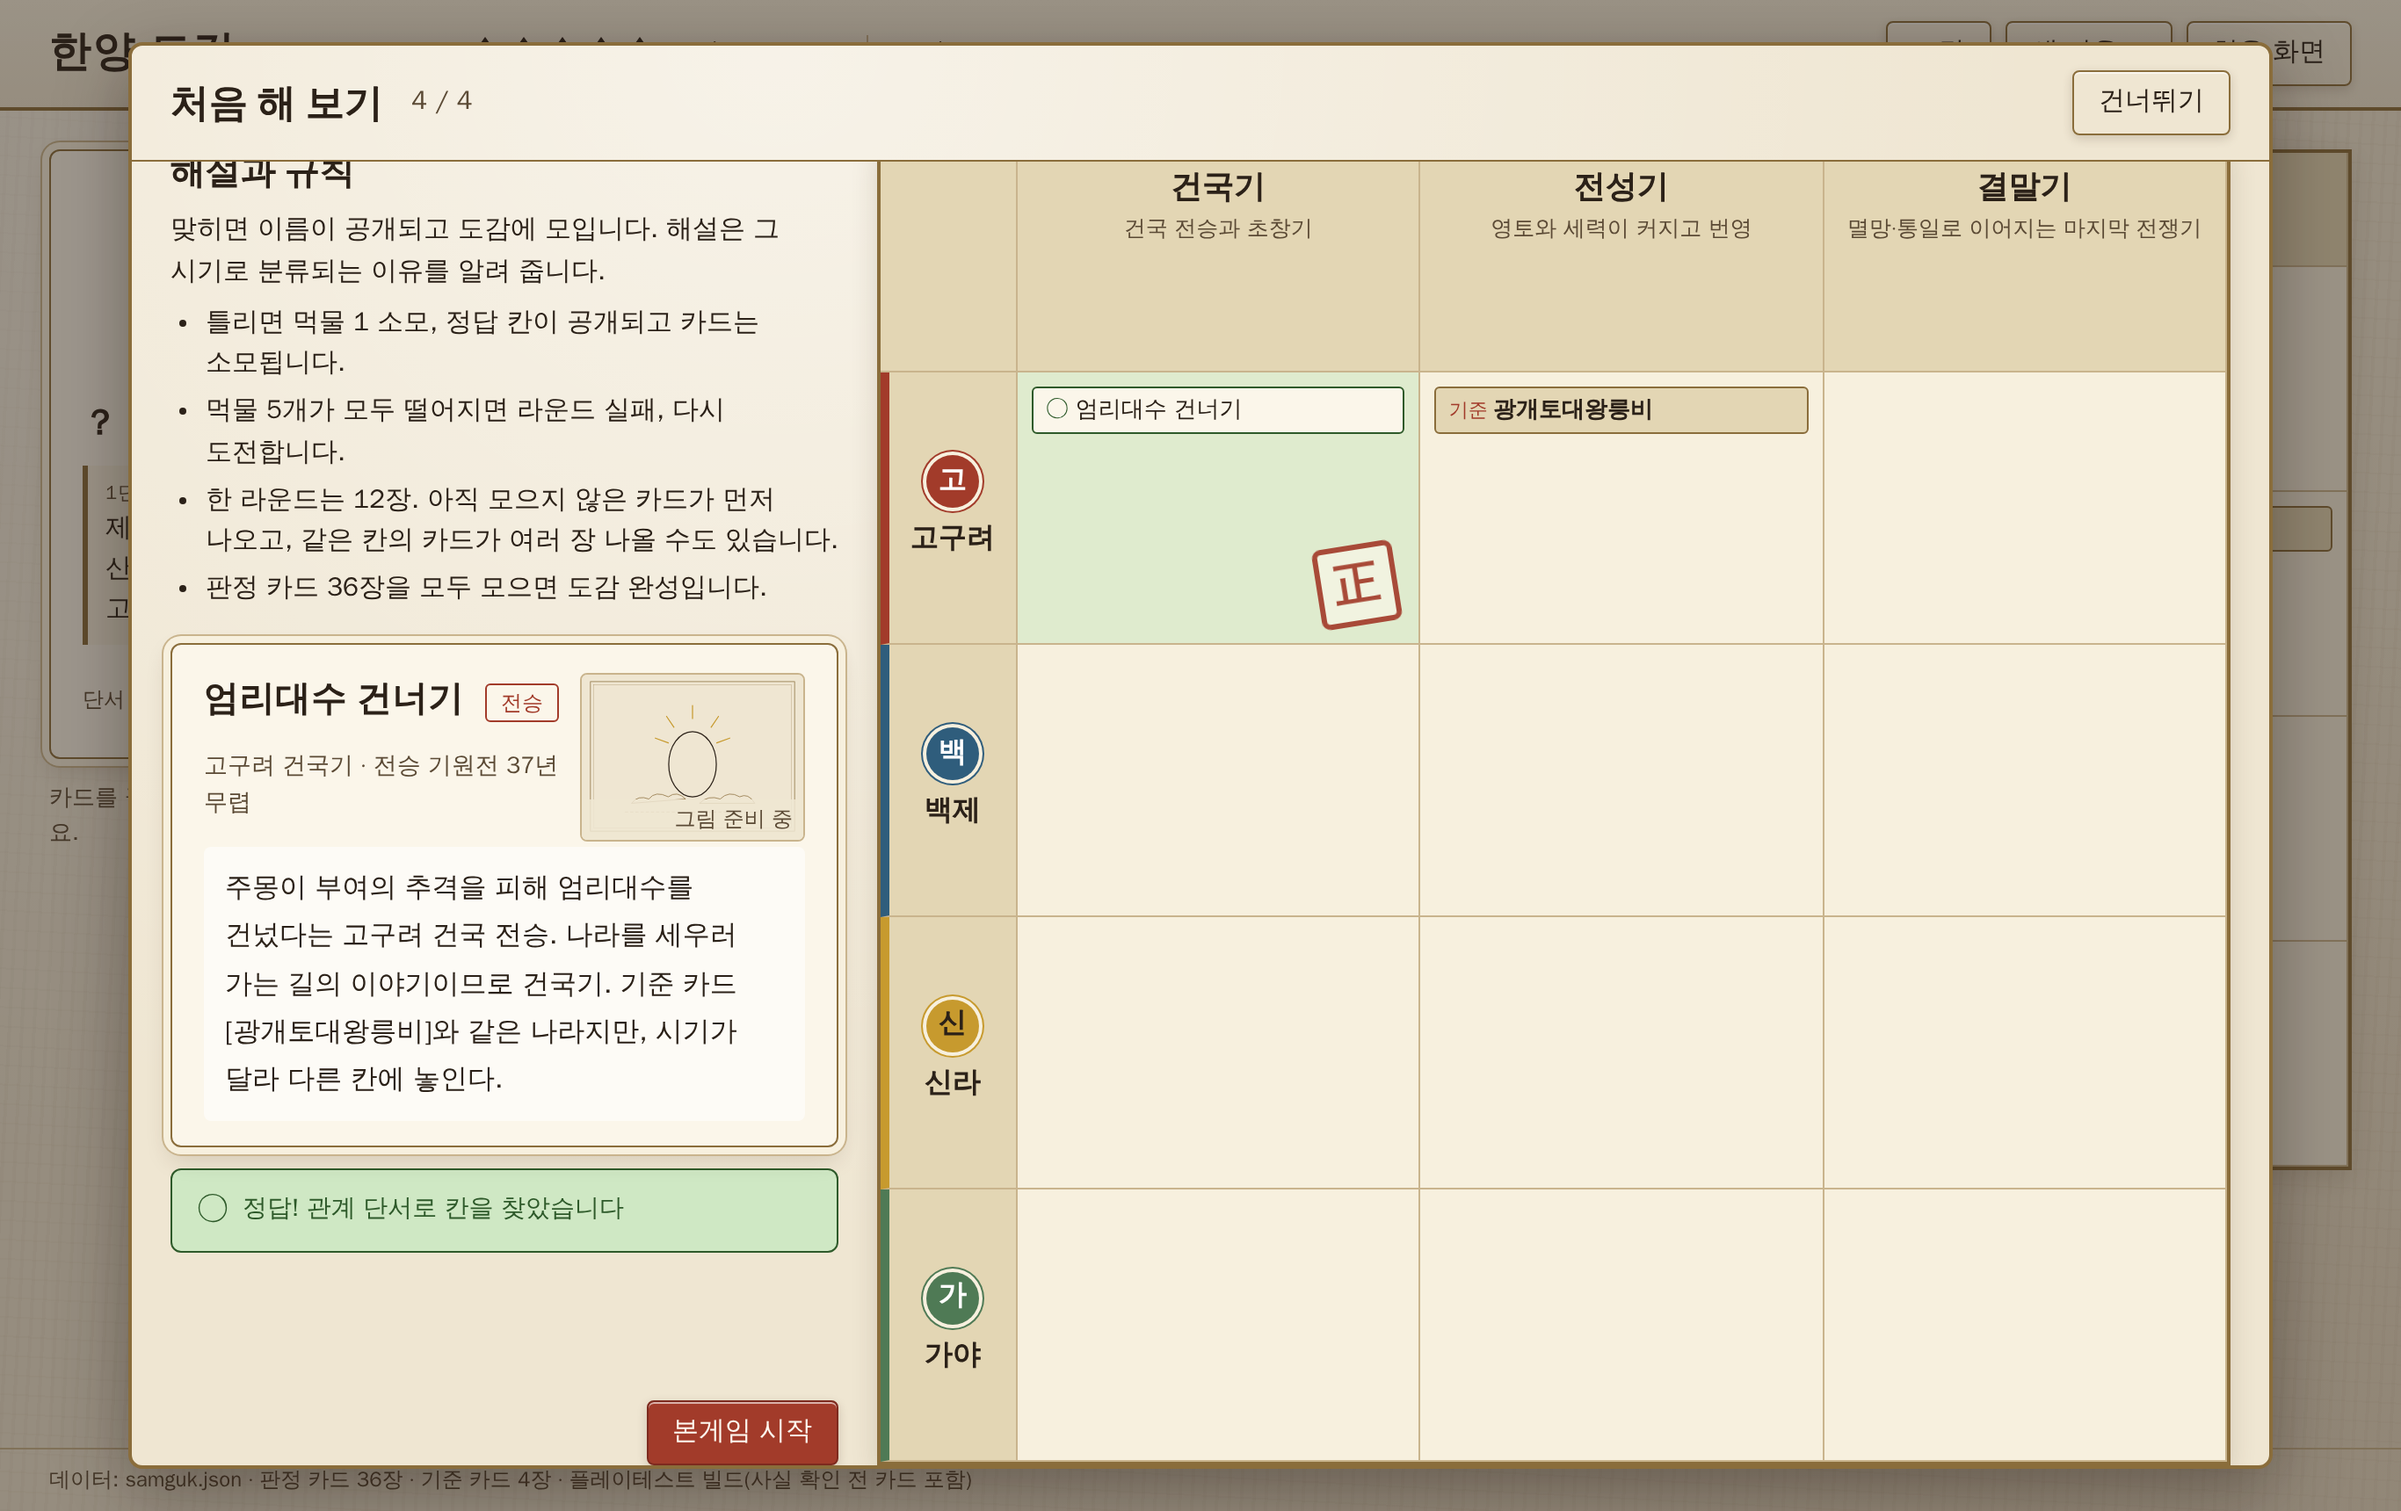
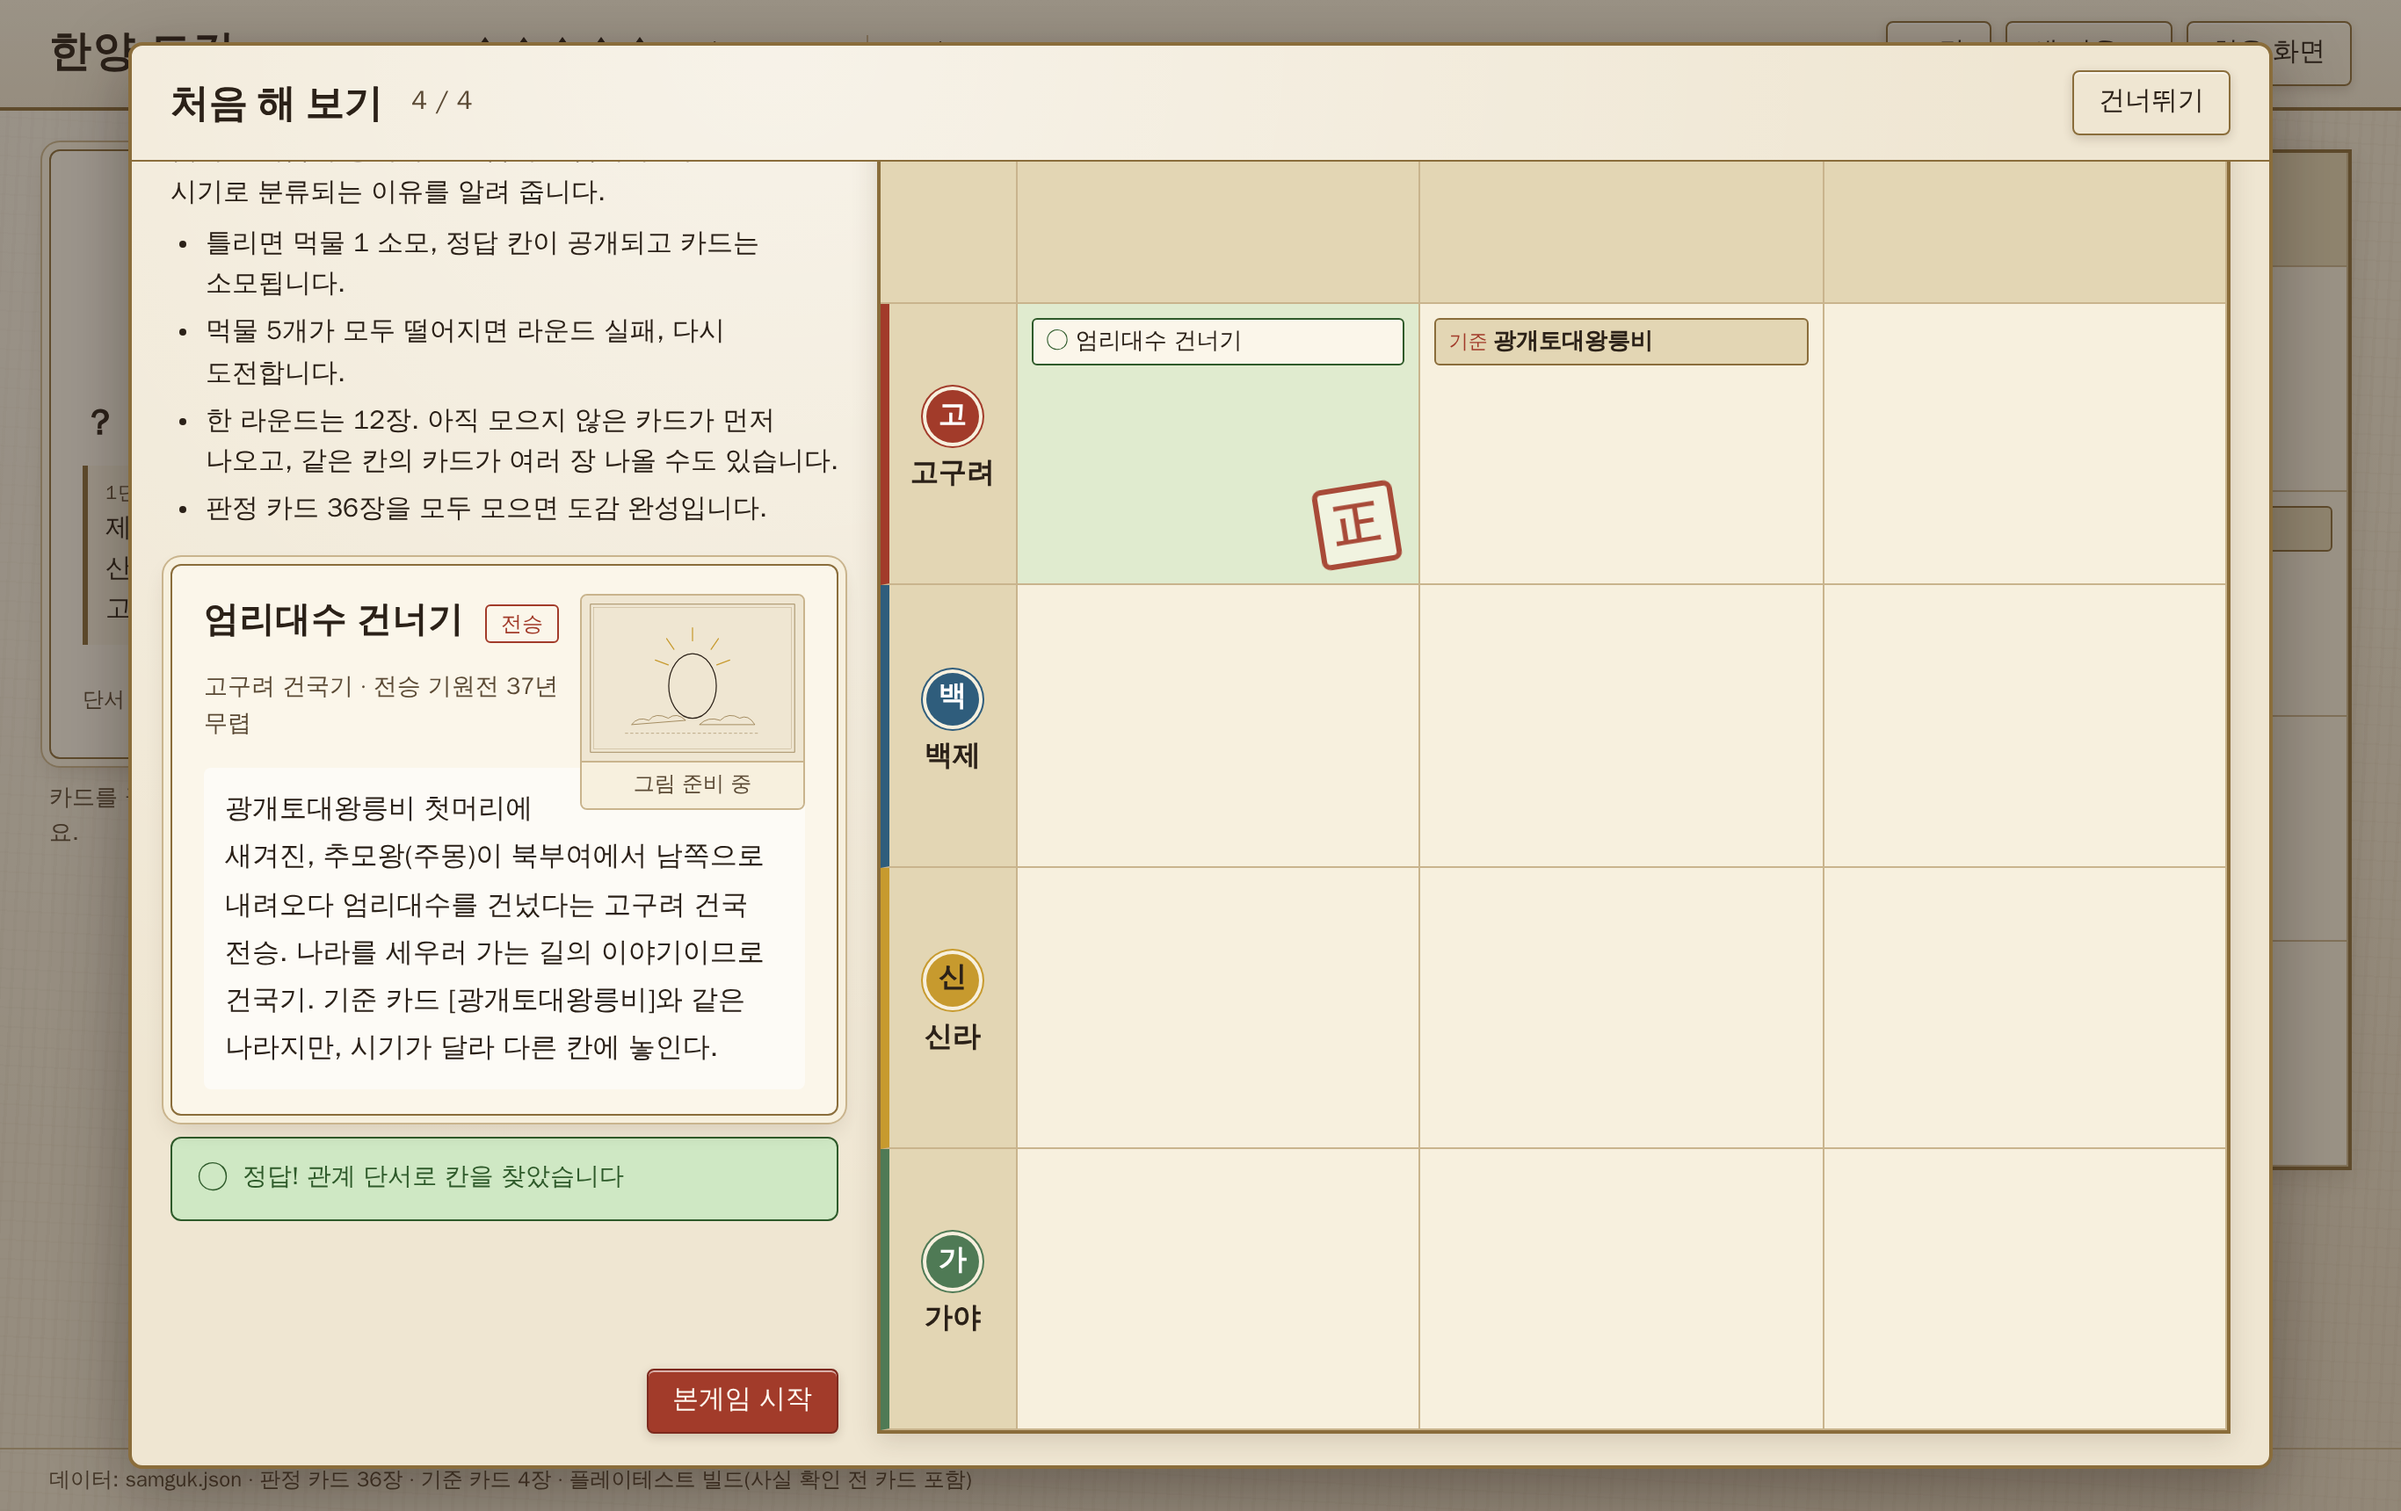
fix: place illustration caption below placeholder art, retake screenshots
- 'Picture in preparation' caption moved under the 4:3 art so it no
  longer overlaps the placeholder's double border (art review 2, §2);
  E2E asserts caption sits below the image and the image stays 4:3
- All 18 screenshots retaken with the latest card data

Claude-Session: https://claude.ai/code/session_01KFwKcXZaAYXL5Re7NZj86K

diff --git a/web/style.css b/web/style.css
@@ -404,9 +404,11 @@ button { font: inherit; color: inherit; }
 .btn-danger.btn-primary, #reset-confirm { background: var(--seal); color: #fff8ef; }
 
 /* ---------- D37: 일러스트 영역, 나라 인장, 기준 카드 참조 ---------- */
-.illust { margin: 0; aspect-ratio: 4 / 3; border-radius: 4px; overflow: hidden; position: relative; background: var(--paper); border: 1px solid var(--line-soft); }
-.illust img { width: 100%; height: 100%; object-fit: cover; display: block; }
-.illust figcaption { position: absolute; left: 0; right: 0; bottom: 0; padding: 2px 6px; font-size: 12px; color: var(--ink-soft); background: rgba(239,230,210,.85); text-align: right; }
+.illust { margin: 0; border-radius: 4px; overflow: hidden; position: relative; background: var(--paper); border: 1px solid var(--line-soft); }
+.illust img { width: 100%; aspect-ratio: 4 / 3; height: auto; object-fit: cover; display: block; }
+/* 캡션은 문양 아래에 따로 둔다(대체 문양의 이중 테두리와 겹치지 않게, 2차 아트 검수 §2). */
+.illust figcaption { padding: 3px 6px 4px; font-size: 12px; color: var(--ink-soft); text-align: center; border-top: 1px solid var(--line-soft); background: var(--paper-2); }
+.illust-hidden { aspect-ratio: 4 / 3; }
 .illust-hidden {
   width: 50%; margin: 0 auto 10px; display: grid; place-items: center;
   background:
